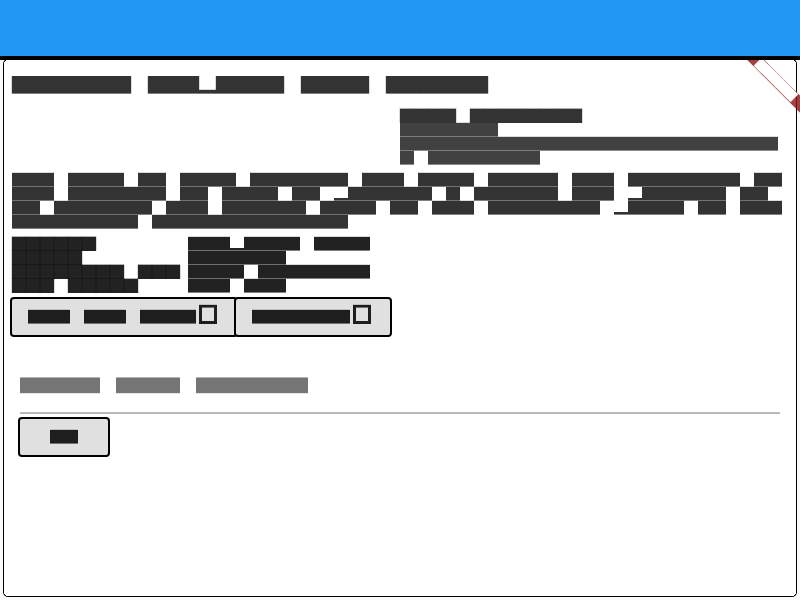
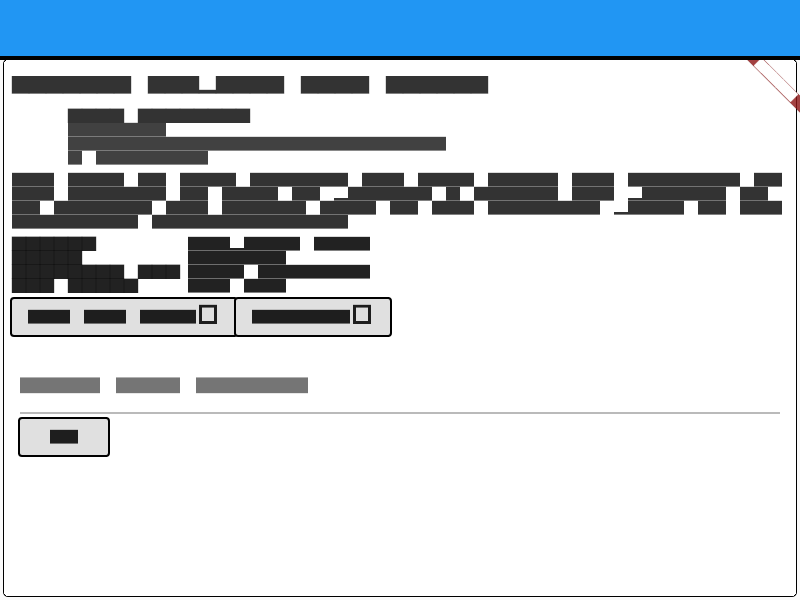
Rebuilt golden files - fixed image constrains bug - added docs how to generate golden files

Changed region(s): [[0.0625, 0.18, 0.9688, 0.3]]

diff --git a/lib/src/elements/basics.dart b/lib/src/elements/basics.dart
@@ -456,10 +456,10 @@ class AdaptiveImage extends AdaptiveElement with SeparatorElementMixin {
       padding: const EdgeInsets.all(8.0),
       child: ConstrainedBox(
         constraints: BoxConstraints(
-            minWidth: size.a,
-            minHeight: size.a,
-            maxHeight: size.b,
-            maxWidth: size.b),
+            minWidth: size == null? 0 : size.a,
+            minHeight: size == null? 0 : size.a,
+            maxHeight: size == null? double.infinity : size.b,
+            maxWidth: size == null? double.infinity : size.b),
         child: Align(
           alignment: horizontalAlignment,
           child: image,

diff --git a/README.md b/README.md
@@ -82,6 +82,14 @@ We use [SemVer](http://semver.org/) for versioning. For the versions available, 
 
 See also the list of [contributors](https://github.com/Norbert515/flutter_adaptive_cards/contributors) who participated in this project.
 
+
+## Testing
+
+To update the golden files run:
+```
+flutter test --update-goldens test/sample_golden_test.dart
+```
+
 ## License
 
 This project is licensed under the MIT License - see the [LICENSE](LICENSE) file for details